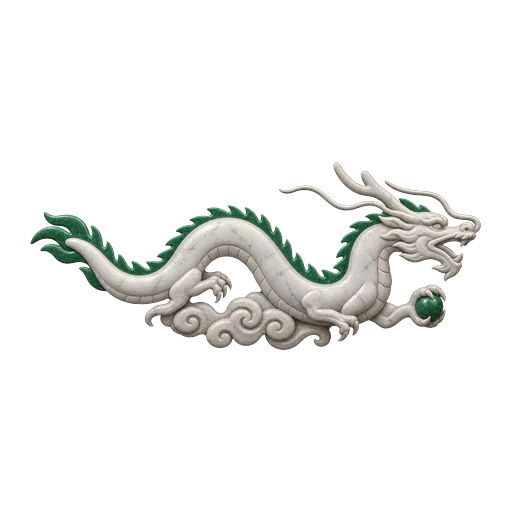
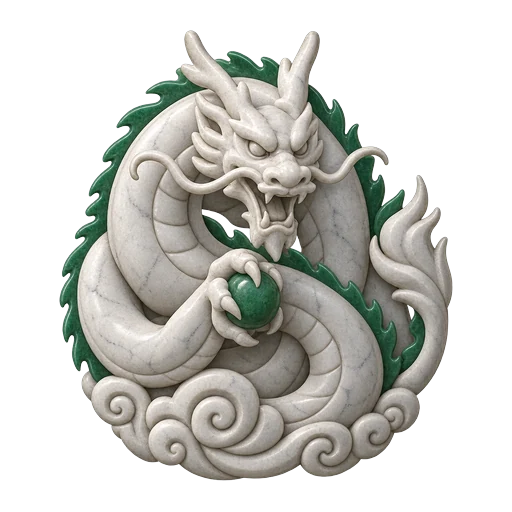
Arte: dragón compacto, vista previa con la piedra real y prompts de Grulla y Kunoichi más compactos

diff --git a/tool/prep_piece_art.py b/tool/prep_piece_art.py
@@ -47,6 +47,14 @@ def preview(art: Image.Image, size: int, shaolin: bool, leader: bool) -> Image.I
     edge = (47, 158, 110, 255) if shaolin else (192, 64, 79, 255)
     base = Image.new('RGBA', (size, size), (205, 185, 140, 255))
     ImageDraw.Draw(base).polygon(_hex(c, r), fill=face)
+    tex_path = os.path.join(ROOT, 'assets', 'textures', f"{'shaolin' if shaolin else 'ninja'}_stone.webp")
+    if os.path.exists(tex_path):
+        tex = Image.open(tex_path).convert('RGBA').resize((round(2.6 * r), round(2.6 * r)), Image.LANCZOS)
+        hex_mask = Image.new('L', (size, size), 0)
+        ImageDraw.Draw(hex_mask).polygon(_hex(c, r), fill=255)
+        tex_layer = Image.new('RGBA', (size, size))
+        tex_layer.paste(tex, (round(c - 1.3 * r), round(c - 1.3 * r)))
+        base.paste(tex_layer, (0, 0), hex_mask)
     scaled = art.resize((round(1.6 * r), round(1.6 * r)), Image.LANCZOS)
     layer = Image.new('RGBA', (size, size), (0, 0, 0, 0))
     layer.paste(scaled, (round(c - 0.8 * r), round(c - 0.8 * r)), scaled)

diff --git a/docs/asset_prompts.md b/docs/asset_prompts.md
@@ -56,7 +56,7 @@ COMPOSITION: The figure is compact: its overall shape is about as tall as it is 
 DO NOT INCLUDE: any background, frame, border, hexagon, circle, coin, medallion, plaque, base or pedestal; any text, letters or Chinese/Japanese characters; a halo or ring behind the head; extra figures or objects; photographic skin; cartoon, anime or flat vector style; a perspective tilt.
 ```
 
-### Dragón Celestial — `shaolin_dragon` ⚠ rehacer: la primera versión era horizontal y en la ficha no se lee
+### Dragón Celestial — `shaolin_dragon` ✅ generada
 Habilidad: Vuela en línea recta sobre fichas contiguas y aterriza en el primer hueco.
 
 ```
@@ -121,13 +121,13 @@ Create a SQUARE image (1:1 aspect ratio, 1024×1024, not landscape, not portrait
 
 PURPOSE: This is the icon for a game piece in a hexagonal board game. It will be shown very small (about 50×50 pixels) on top of a hexagonal stone tile that the game draws itself. So the image must contain ONLY the carved figure, with nothing behind it.
 
-SUBJECT: A red-crowned crane caught mid-leap, front view. Both wings spread wide and raised high in a V shape. Long thin legs pushing off below, as if springing over an obstacle. Neck stretched upward, beak pointing up. Two or three carved wind streaks curving under the wings. Elegant and light.
+SUBJECT: A red-crowned crane caught mid-leap, front view. Both wings raised high above the body in a tall, narrow V shape (the wing tips point up, not out to the sides). Long thin legs pushing off below, as if springing over an obstacle. Neck stretched upward, beak pointing up. Two or three carved wind streaks curving under the wings. Elegant and light.
 
 MATERIAL AND STYLE: The whole figure is carved from a single block of polished white marble, like a temple bas-relief sculpture that has been cut out along its outline. Only the crown patch on its head is inlaid with green jade (a deep jade green, #2F9E6E). No other colors: no skin tones, no painted cloth, no gold. The carving is deep and simple, with broad smooth planes and strong grooves that separate the main shapes. Very little fine detail: no individual hair strands or fur, no wrinkles, no fabric texture. The marble has a soft satin polish with faint gray veining.
 
 LIGHTING: A single soft light from the upper left. The upper-left edges of the carving catch highlights, and the grooves and lower-right edges fall into soft shadow, so the relief reads clearly as raised 3D stone. No cast shadow on the ground.
 
-COMPOSITION: The figure is compact: its overall shape is about as tall as it is wide (never a long thin horizontal or vertical shape), perfectly centered, and it fills an imaginary circle that covers about 80% of the canvas width. All four corners must stay completely empty and transparent. The whole figure is visible, nothing is cropped. The silhouette must be bold and instantly recognizable even when shrunk to 50 pixels: wide V of raised wings with a long upward neck.
+COMPOSITION: The figure is compact: its overall shape is about as tall as it is wide (never a long thin horizontal or vertical shape), perfectly centered, and it fills an imaginary circle that covers about 80% of the canvas width. All four corners must stay completely empty and transparent. The whole figure is visible, nothing is cropped. The silhouette must be bold and instantly recognizable even when shrunk to 50 pixels: tall V of raised wings with a long upward neck.
 
 DO NOT INCLUDE: any background, frame, border, hexagon, circle, coin, medallion, plaque, base or pedestal; any text, letters or Chinese/Japanese characters; extra figures or objects; photographic skin; cartoon, anime or flat vector style; a perspective tilt.
 ```
@@ -201,13 +201,13 @@ Create a SQUARE image (1:1 aspect ratio, 1024×1024, not landscape, not portrait
 
 PURPOSE: This is the icon for a game piece in a hexagonal board game. It will be shown very small (about 50×50 pixels) on top of a hexagonal stone tile that the game draws itself. So the image must contain ONLY the carved figure, with nothing behind it.
 
-SUBJECT: A female ninja (kunoichi) in a poised, upright stance, three-quarter body, facing the viewer. Hair tied in a high ponytail. Face half-masked, eyes visible. One arm extended to the side, holding a single long slender needle between two fingers. A small burst of carved crimson cracks radiating from the needle tip, like a paralysis mark. Graceful and precise.
+SUBJECT: A female ninja (kunoichi) in a poised, upright stance, three-quarter body, facing the viewer. Hair tied in a high ponytail. Face half-masked, eyes visible. One hand raised in front of her shoulder, close to the body, holding a single long slender needle between two fingers, pointing up and forward. A small burst of carved crimson cracks radiating from the needle tip, like a paralysis mark. Graceful and precise.
 
 MATERIAL AND STYLE: The whole figure is carved from a single block of polished black obsidian stone, like a temple bas-relief sculpture that has been cut out along its outline. Thin glowing crimson veins (#C0404F) run through the stone, and the eyes and the needle tip burst are carved in the same crimson. No other colors: no skin tones, no painted cloth, no gold. Every outer edge of the figure has a crisp pale-gray polished rim highlight so the dark figure stays readable on a dark tile. The carving is deep and simple, with broad smooth planes and strong grooves that separate the main shapes. Very little fine detail: no individual hair strands or feathers, no fabric texture.
 
 LIGHTING: A single soft light from the upper left. The upper-left edges of the carving catch highlights, and the grooves and lower-right edges fall into soft shadow, so the relief reads clearly as raised 3D stone. No cast shadow on the ground.
 
-COMPOSITION: The figure is compact: its overall shape is about as tall as it is wide (never a long thin horizontal or vertical shape), perfectly centered, and it fills an imaginary circle that covers about 80% of the canvas width. All four corners must stay completely empty and transparent. The whole figure is visible, nothing is cropped. The silhouette must be bold and instantly recognizable even when shrunk to 50 pixels: upright figure with a high ponytail and one arm extended holding a needle.
+COMPOSITION: The figure is compact: its overall shape is about as tall as it is wide (never a long thin horizontal or vertical shape), perfectly centered, and it fills an imaginary circle that covers about 80% of the canvas width. All four corners must stay completely empty and transparent. The whole figure is visible, nothing is cropped. The silhouette must be bold and instantly recognizable even when shrunk to 50 pixels: upright figure with a high ponytail and a raised needle near the shoulder.
 
 DO NOT INCLUDE: any background, frame, border, hexagon, circle, coin, medallion, plaque, base or pedestal; any text, letters or Chinese/Japanese characters; extra figures or objects; photographic skin; cartoon, anime or flat vector style; a perspective tilt.
 ```
